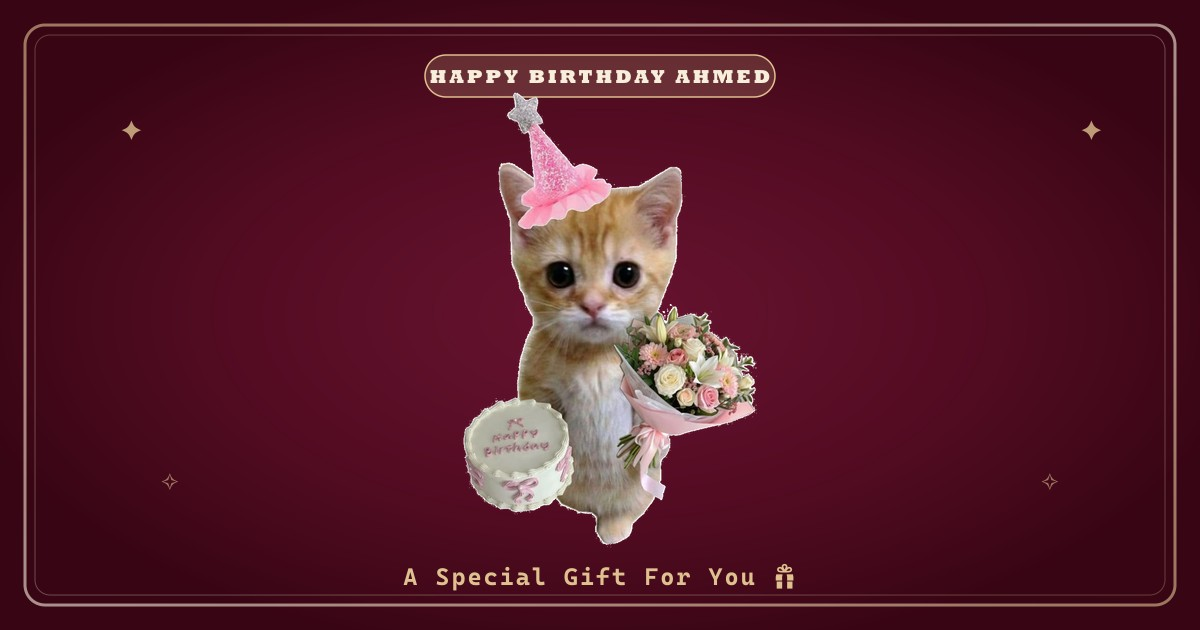
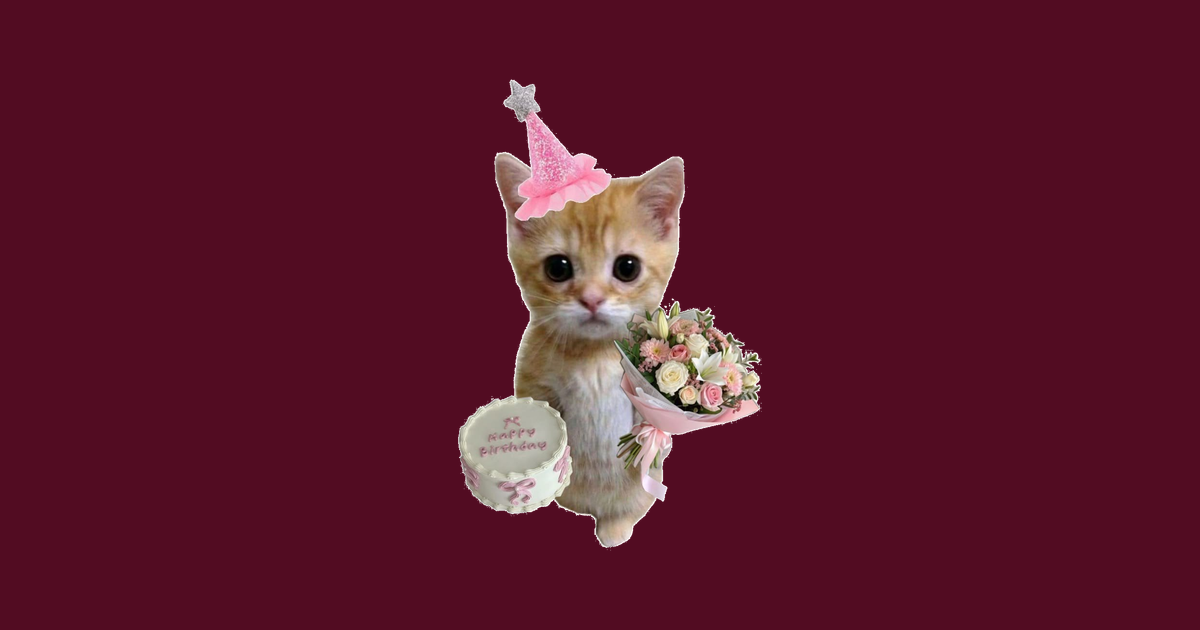
edits

Changed region(s): [[0.0, 0.0, 1.0, 1.0], [0.0925, 0.181, 0.1233, 0.2111]]

diff --git a/app/page.tsx b/app/page.tsx
@@ -3,19 +3,19 @@ import giftData from '@/lib/giftData'
 import GiftClient from '@/components/GiftClient'
 
 export const metadata: Metadata = {
-  metadataBase: new URL('https://agiftforyouuu.vercel.app'),
-  title: 'عيد ميلاد سعيد لأحمد! 🎂',
-  description: 'رسالة عيد ميلاد خاصة لأحمد 🤍',
+  metadataBase: new URL('https://happybirthdayamna-puce.vercel.app/'),
+  title: 'happy birthday amna🎂',
+  description: 'happy birthday amna🎂',
   openGraph: {
-    title: 'عيد ميلاد سعيد لأحمد! 🎂',
-    description: 'رسالة عيد ميلاد خاصة لأحمد 🤍',
-    url: 'https://agiftforyouuu.vercel.app',
+    title: 'happy birthday amna🎂',
+    description: 'happy birthday amna🎂',
+    url: 'https://happybirthdayamna-puce.vercel.app',
     siteName: 'هدية عيد ميلاد',
     type: 'website',
     images: [
       {
-        url: 'https://agiftforyouuu.vercel.app/images/og-cat.jpg',
-        secureUrl: 'https://agiftforyouuu.vercel.app/images/og-cat.jpg',
+        url: 'https://happybirthdayamna-puce.vercel.app/images/og-cat.jpg',
+        secureUrl: 'https://happybirthdayamna-puce.vercel.app/images/og-cat.jpg',
         width: 1200,
         height: 630,
         type: 'image/jpeg',
@@ -25,9 +25,9 @@ export const metadata: Metadata = {
   },
   twitter: {
     card: 'summary_large_image',
-    title: 'عيد ميلاد سعيد لأحمد! 🎂',
-    description: 'رسالة عيد ميلاد خاصة لأحمد 🤍',
-    images: ['https://agiftforyouuu.vercel.app/images/og-cat.jpg'],
+    title: 'happy birthday amna🎂',
+    description: 'happy birthday amna🎂',
+    images: ['https://happybirthdayamna-puce.vercel.app/images/og-cat.jpg'],
   },
 }
 
